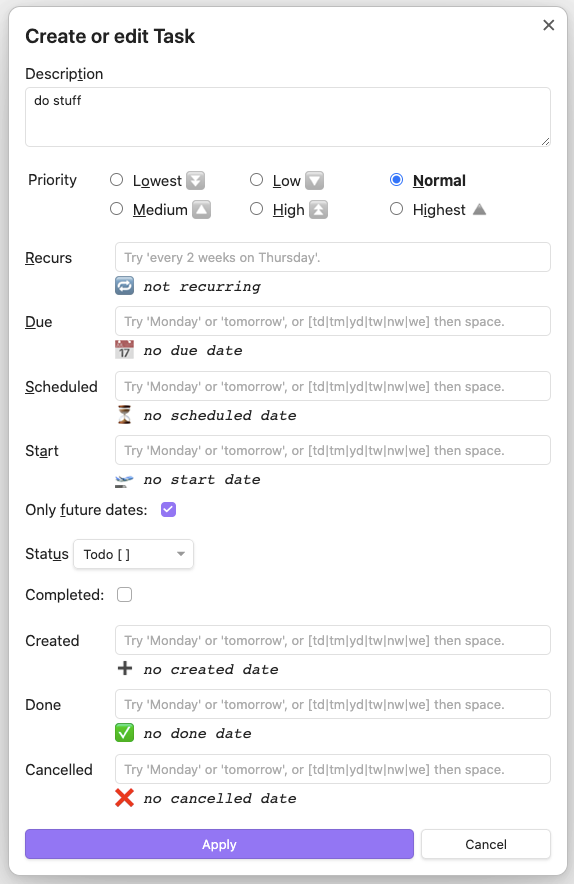
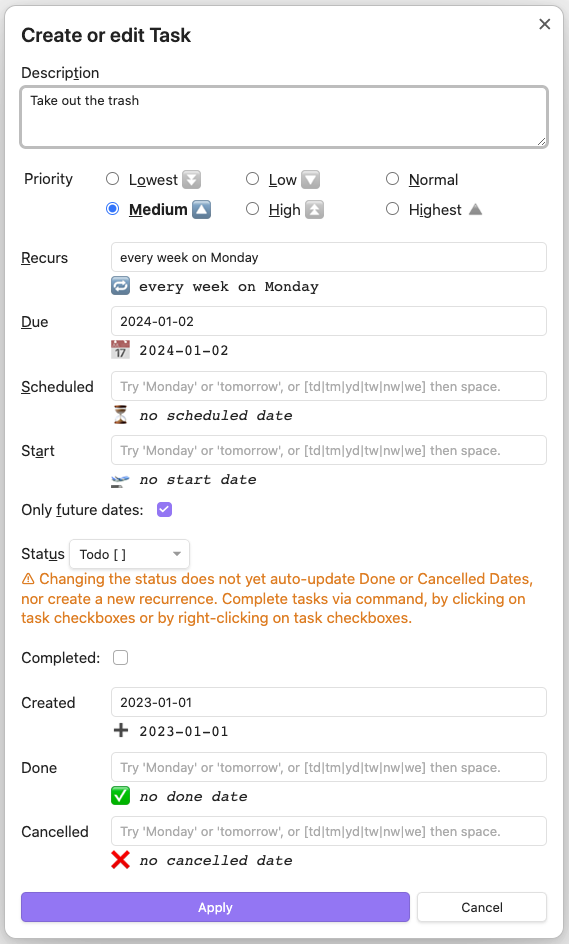
fix: Warn in Edit Task modal about Status-editing limitations (#2558)
* feat: Warn in Edit Task modal about Status limitations

* docs: Update screenshot of Edit Task modal

Changed region(s): [[0.0, 0.0, 1.0, 1.0]]

diff --git a/src/ui/EditTask.svelte b/src/ui/EditTask.svelte
@@ -542,6 +542,9 @@
                     <option value={status}>{status.name} [{status.symbol}]</option>
                 {/each}
             </select>
+            <!-- svelte-ignore a11y-label-has-associated-control -->
+            <label class="tasks-modal-warning">⚠ Changing the status does not yet auto-update Done or Cancelled Dates, nor create a new recurrence.
+                Complete tasks via command, by clicking on task checkboxes or by right-clicking on task checkboxes.</label>
         </div>
 
         <div class="tasks-modal-section tasks-modal-status">

diff --git a/styles.css b/styles.css
@@ -225,6 +225,11 @@ ul.contains-task-list .task-list-item-checkbox {
     border: 1px solid red !important;
 }
 
+.tasks-modal-warning {
+    color: var(--text-warning) !important;
+    background-color: rgba(var(--background-modifier-warning-rgb), 0.2) !important;
+}
+
 .tasks-modal button:disabled {
     pointer-events: none !important;
     opacity: 0.3 !important;
